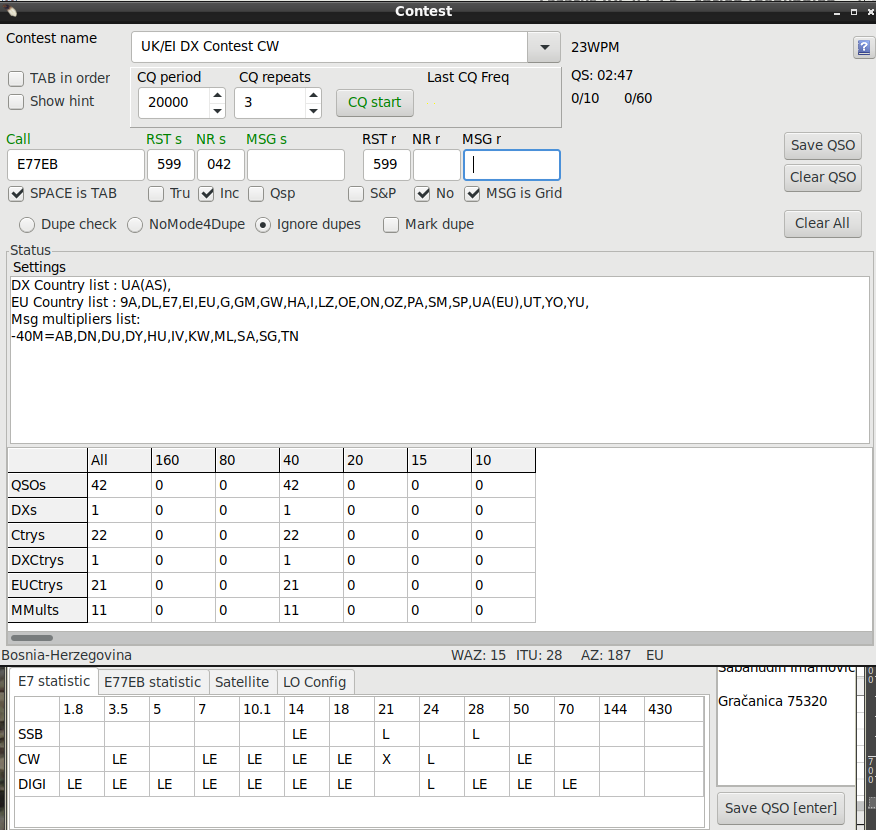
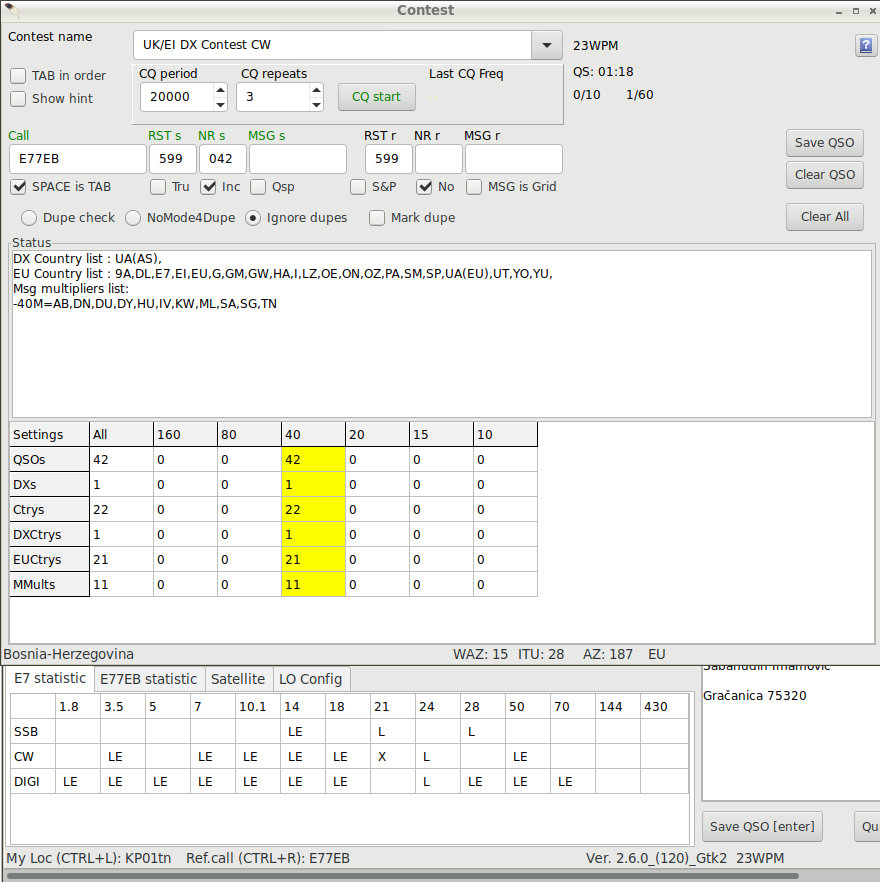
Contest: Fix: Common status settings now from top left cornenr of grid. Counting timer period reduced to 3sec

Changed region(s): [[0.0, 0.0, 1.0, 1.0]]

diff --git a/help/contest.html b/help/contest.html
@@ -42,7 +42,7 @@ It is meant to be a tool for "Sunday contesters working in Tourist Class". Do no
 You <b>do not normally need NewQSO</b> window during contest.
 <br><b>Only need for <i>NewQSO</i> is in case you have to edit an already worked qso.</b>
 Select qso normally via <b>QSO list</b> and press <b>edit QSO button</b> and you are able to edit qso, also the contest message part of it.
- <br><br><b>Repeat: <i> NewQSO</i></b>  is not meant to be used during contest qso feeds. <b>All new qsos are entered via contest window.</b></p>
+ <br><br><b>Repeat: <i> NewQSO window is not meant to be used </i></b>during contest qso feeds. <b>All new qsos are entered via contest window.</b></p>
 
 <p align="center">
    <img src="img/contest.png">
@@ -196,8 +196,8 @@ If contest name has "<b>nac</b>"  included (no case sensitive) then status count
 <img src="img/contest_cmn.png">
 </p>
 <p>
-If contest name has <b>any name that does not fit rules of two above</b> status counting by User defined general rules is activated  by 5sec timer interval.
-<br>There are several items shown in Status display. You can control them by left click of <b>Settings</b> below text <b>Status</b>.
+If contest name has <b>any name that does not fit rules of two above</b> status counting by User defined general rules is activated  by 3sec timer interval.
+<br>There are several items shown in Status display. You can control them by left click of <b>Settings column</b> at grid top left corner.
 <br>You can define what bands are shown in grid. The "All" column is shown always.
 <br>Band based counting can be defined to show all qsos in band(s) using any mode, or showing qso count only related by rig's current mode.
 <br>The DX and own continent counts (EU in picture) are defined against your callsign in preferences/station/call.

diff --git a/src/changelog.html b/src/changelog.html
@@ -11,6 +11,7 @@
     <strong>Alpha test version of CQRLOG 2.6.0 (120)</strong><br>
     New in this alpha version (not in official version):<br>
     <ul style="list-style: square;text-align:left; color: green;" >
+    <li>Contest: Fix: Common status settings now from top left cornenr of grid. Counting timer period reduced to 3sec</li>
     <li>NewQSO:Fix: After ViewQSO 2xESC and Ctrl+F2 should now both work same way </li>
     <li>Contest: code order changes to ensure callsign column gets focus as last operation after qso save</li>
     <li>Preferences:Configuration Storage Settings: flushing Xlocal.cfg was not good idea because 
